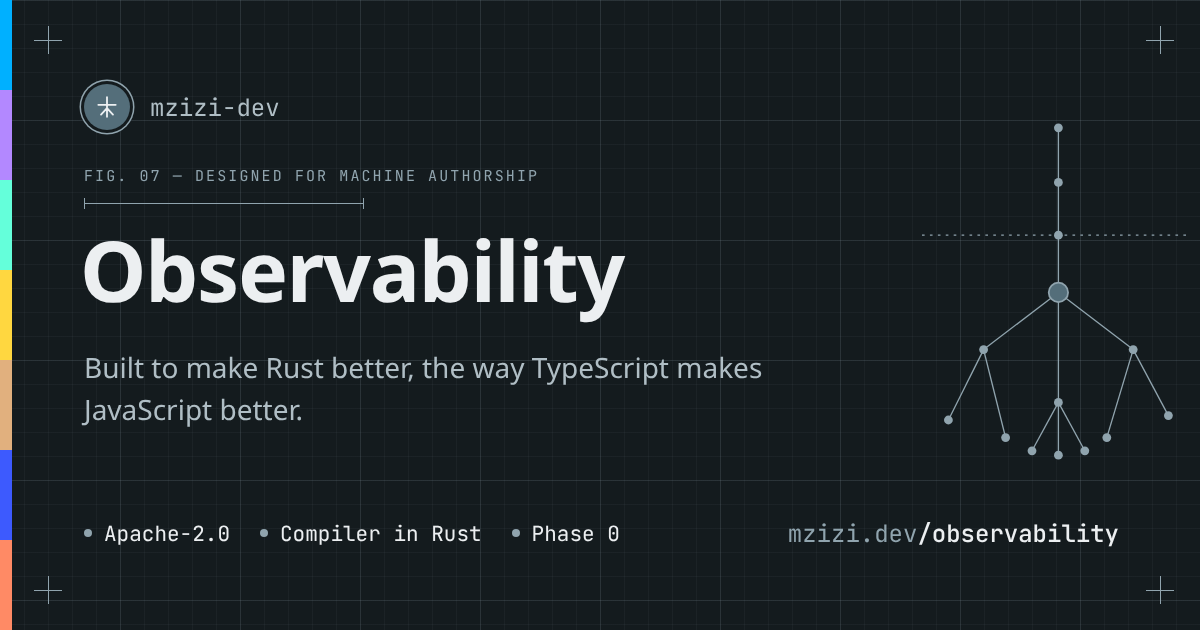
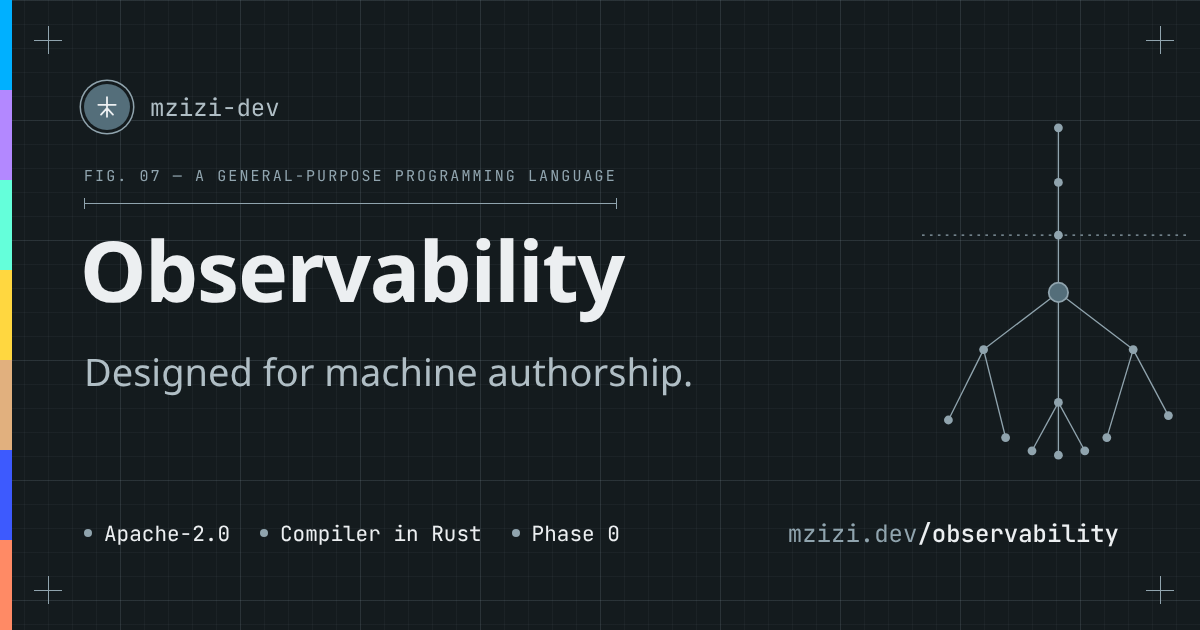
feat: the share card's tagline is "Designed for machine authorship."
Owner, 2026-10-08: "Designed for machine authorship is the tagline." It is
the charter's one sharp edge (§1). It now stands under each page's heading
at 38px, in place of the README's "built to make Rust better" line. The FIG
label, which carried it before, now reads the charter's title, "a
general-purpose programming language", and its bracket rule spans the
label as on the Bundu card. The alt text and the CHANGELOG entry say the
same.

Measured: vp check, pnpm check, pnpm build, generate-og.mjs (11 cards) and
verify-rendered.py dist pass.

Claude-Session: https://claude.ai/code/session_01Q1aSrvXhc8FYbBWpr8yFqx

Changed region(s): [[0.0617, 0.573, 0.6475, 0.6635], [0.1542, 0.2714, 0.5242, 0.3016]]

diff --git a/scripts/og/card.html b/scripts/og/card.html
@@ -12,10 +12,10 @@
   this page renders outside the site build. Mzizi is Swahili for "root", so
   the figure is a root system where Bundu's is a tree.
 
-  The words are the language repo's own: the README's headline ("built to
-  make Rust better, the way TypeScript makes JavaScript better") and the
-  charter's one sharp edge (§1: designed for machine authorship). Both are
-  the design and the goal Phase 0 measures, which the footer says.
+  The tagline is the owner's (2026-10-08): "Designed for machine
+  authorship", the charter's one sharp edge (§1). The label is the
+  charter's title, "a general-purpose programming language". Both say what
+  Mzizi is designed for, the goal Phase 0 measures, which the footer says.
 -->
 <html lang="en">
   <head>
@@ -150,10 +150,11 @@
         letter-spacing: 0.14em;
         color: var(--accent);
         text-transform: uppercase;
+        white-space: nowrap;
       }
       .fig .rule {
         margin-top: 12px;
-        width: 280px;
+        width: 100%;
         height: 11px;
         border-left: 1px solid var(--accent);
         border-right: 1px solid var(--accent);
@@ -183,8 +184,8 @@
         left: 84px;
         top: 346px;
         width: 760px;
-        font-size: 28px;
-        line-height: 1.5;
+        font-size: 38px;
+        line-height: 1.35;
         color: var(--sub);
       }
       .tags {
@@ -250,7 +251,7 @@
         const fig = String(q.get("fig") || "1").padStart(2, "0");
         document.querySelector("h1").textContent = title;
         document.querySelector(".fig .label").textContent =
-          `Fig. ${fig} — designed for machine authorship`;
+          `Fig. ${fig} — a general-purpose programming language`;
         const url = document.querySelector(".url");
         url.textContent = "mzizi.dev";
         if (path !== "/") {
@@ -308,9 +309,7 @@
 
     <h1></h1>
 
-    <p class="sub">
-      Built to make Rust better, the way TypeScript makes JavaScript better.
-    </p>
+    <p class="sub">Designed for machine authorship.</p>
 
     <div class="tags mono">
       <span>Apache-2.0</span>

diff --git a/CHANGELOG.md b/CHANGELOG.md
@@ -26,7 +26,7 @@ cut, the Unreleased entries move under it.
 - **Every page now has a share card** for link previews: an `og:image` and `twitter:image` with its size, type and alt text, plus `og:site_name` and `twitter:card` `summary_large_image`. Before this, no page set an image, so LinkedIn, X, Slack and WhatsApp showed whatever image they found on the page, or none.
   - **One card per top-level page,** `/og/<page>.png` (1200 x 630), carrying that page's heading and URL (`mzizi.dev/language`, `mzizi.dev/tokens`, …). A component or skill page uses its section's card. `/og/index-light.png` is a light version of the landing page's, for posts on a light background.
   - **The look** is the Bundu Foundation card's blueprint layout (grid, corner marks, a numbered `FIG.` label), so the estate's cards read as one family, in Mzizi's hematite: the surface, grid, rules and mark are hematite, with the site's seven-mineral strip down the left edge. The figure is a root system, since Mzizi is Swahili for "root".
-  - **The words are the language repo's own:** the README's headline, "Built to make Rust better, the way TypeScript makes JavaScript better.", the charter's "designed for machine authorship" (§1) in the label, and "Apache-2.0 · Compiler in Rust · Phase 0". Both lines are the design and the goal Phase 0 measures, not a result.
+  - **The tagline is "Designed for machine authorship."** (owner, 2026-10-08), the charter's one sharp edge (§1), under the page's heading. The label is the charter's title, "a general-purpose programming language", and the footer reads "Apache-2.0 · Compiler in Rust · Phase 0": the tagline is what Mzizi is designed for, the goal Phase 0 measures, not a result.
 - `scripts/og/card.html` is the card. `scripts/generate-og.mjs` reads each built page's `<h1>`, renders its card with Playwright and writes `src/data/og-cards.json`, which `Site.astro` reads; the PNGs are generated, then committed, like the component previews. `scripts/verify-rendered.py` now fails when a top-level page has no card, a card is missing or not 1200 x 630, a page names any card but its own section's, or the landing page drops `summary_large_image`.
 
 ### Changed — the 8 October release (#96) is on main: the tracker's C1–C5, C9 and C10 rows read ✅, the harness has 70 codes, and #95 is on staging (2026-10-08)
